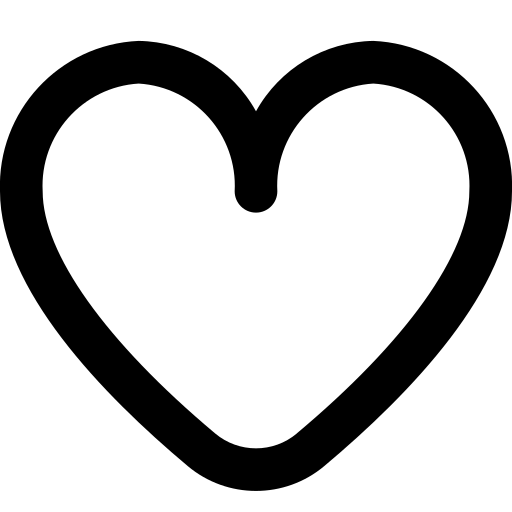
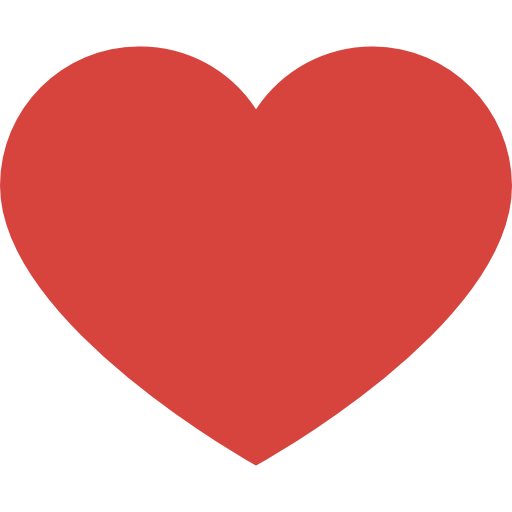
like y post perfectos

diff --git a/src/views/viewWall.js b/src/views/viewWall.js
@@ -1,22 +1,7 @@
-import { getAuth, serverTimestamp,onSnapshot } from '../lib/firebase-funtion.js';
+import { getAuth, serverTimestamp,onSnapshot} from '../lib/firebase-funtion.js';
 import { savePost, onSnapshotFunction, deletePost, editPost, like,showsPost} from '../lib/firebase-root.js';
 
 const auth = getAuth();
-const callOnSnapShot = () => {
-    const queryCollection = onSnapshotFunction();
-    onSnapshot(queryCollection, (querySnapshot) => {
-        const viewPost = document.createElement('section');
-        querySnapshot.forEach((doc) => {
-            viewPost.setAttribute('class', 'gridSectionviewPost');
-            viewPost.appendChild(postView(doc.id, doc.data()));
-        });
-        const containerPost = document.createElement('section');
-        containerPost.setAttribute('class', 'gridSectioncontainerPost');
-        containerPost.appendChild(viewPost);
-        document.getElementById("postList").append(containerPost);
-
-    });
-};
 
 export default () => {
     const viewWall = `
@@ -32,11 +17,30 @@ export default () => {
     <div id="errorMessagePost"></div>
     </section>
     `;
-
     const pagWall = document.createElement('section');
     pagWall.id = "postList"
     pagWall.innerHTML = viewWall;
     const sendPost = pagWall.querySelector('#sendPost');
+
+    const callOnSnapShot = () => {
+        const queryCollection = onSnapshotFunction();
+        onSnapshot(queryCollection, (querySnapshot) => {
+            if (document.querySelector("#postList #gridSectioncontainerPost")) {
+                document.querySelector("#postList #gridSectioncontainerPost").remove();
+            }
+            const viewPost = document.createElement('section');
+            querySnapshot.forEach((doc) => {
+                viewPost.setAttribute('class', 'gridSectionviewPost');
+                viewPost.appendChild(postView(doc.id, doc.data()));
+            });
+            const containerPost = document.createElement('section');
+            containerPost.setAttribute('class', 'gridSectioncontainerPost');
+            containerPost.appendChild(viewPost);
+            viewPost.id= "gridSectioncontainerPost";
+            document.getElementById("postList").append(containerPost);
+
+        });
+    };
 
     // Dandole vida al boton Sendpost
     sendPost.addEventListener('click', () => {
@@ -45,7 +49,6 @@ export default () => {
         if (validationInputPost !== '') {
             const userName = auth.currentUser;
             const actualDate = serverTimestamp();
-            pagWall.querySelector('.gridSectioncontainerPost').innerHTML=''
             savePost(validationInputPost, userName.email, actualDate).then(() => {
                 // paintPostview();
                 const cleanPost = document.querySelector('#postUser');
@@ -78,14 +81,14 @@ export const postView = (idPost, post) => {
       <button class='btnPublicpost hide' id='btnPublicpost'></button>
       <button class='btnEditPost' id='publicBtnEditPost'></button>
       <button type="submit" id="trashImg"></button>
-      <button type="submit" id="heartImg"></button>
+      <button type="submit" class="${post.like.includes(auth.lastNotifiedUid) ? 'rojo':'blanco'}" id="heartImg"></button>
       <button type="submit" class="heartRed hide" id="heartRed"></button>
       <button class='icons' id='counter'>${post.like.length}</button>
     
       
          `;
     viewPostUser.innerHTML = postPublic;
-    const deleteFunction = (id, posts) => deletePost(id, posts);
+    const deleteFunction = (id, post) => deletePost(id, post);
 
     const buttonDelete = viewPostUser.querySelector('#trashImg');
     buttonDelete.addEventListener('click', () => {

diff --git a/src/style.css b/src/style.css
@@ -333,7 +333,7 @@ header h1 {
   width: 20px;
   height: 20px;
   border: none;
-  margin-top: 200px;
+  margin: 2px;
   right: 400px;
 }
 #heartRed{
@@ -342,7 +342,7 @@ header h1 {
   width: 20px;
   height: 20px;
   border: none;
-  margin-top: 200px;
+  margin: 2px;
   right: 400px;
 }
 
@@ -353,7 +353,7 @@ header h1 {
   width: 20px;
   height: 20px;
   border: none;
-  margin-top: 200px;
+  margin: 2px;
   right: 440px;
 }
 
@@ -364,7 +364,7 @@ header h1 {
   width: 20px;
   height: 20px;
   border: none;
-  margin-top: 200px;
+  margin: 2px;
   right: 480px;
   
 }
@@ -389,23 +389,33 @@ header h1 {
   width: 20px;
   height: 20px;
   border: none;
-  margin-top: 200px;
+  margin: 2px 5px;
   right: 400px;
 }
 .gridSectionviewPost{
   display: grid;
   grid-template-columns: 1fr;
 }
-/* .gridSectioncontainerPost{
+.gridSectioncontainerPost{
   display: grid;
-  grid-template-columns: 1fr 1fr;
 }
- */
+.containerPost{
+  margin-bottom: 2em;
+}
 .hide{
   display:none;
 }
 .show{
 display: block;
+}
+.rojo{
+  background: white url(./imagenes/heart.png) no-repeat center center !important;
+  background-size: 80% 80% !important;
+}
+
+.blanco{
+  background: white url(./imagenes/love.png) no-repeat center center !important;
+  background-size: 80% 80% !important;
 }
  
 @media only screen and (max-width : 600px) {
@@ -419,3 +429,4 @@ display: block;
     font-size: 30px;
   }
 }
+

diff --git a/src/lib/firebase-root.js b/src/lib/firebase-root.js
@@ -99,7 +99,7 @@ import { addDoc, collection, query, getDocs, deleteDoc, doc, updateDoc, arrayUni
   };
   
   export const onSnapshotFunction = () => {
-    const q = query(collection(db, 'post'), orderBy ("date", "desc"))
+    const q = query(collection(db, 'post'), orderBy ("date", "desc"));
     return q;
 
   };
